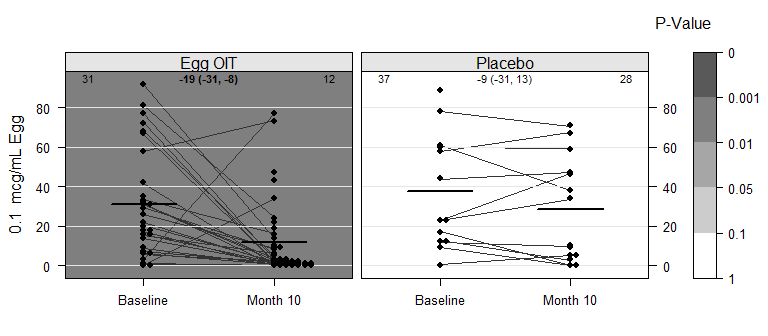
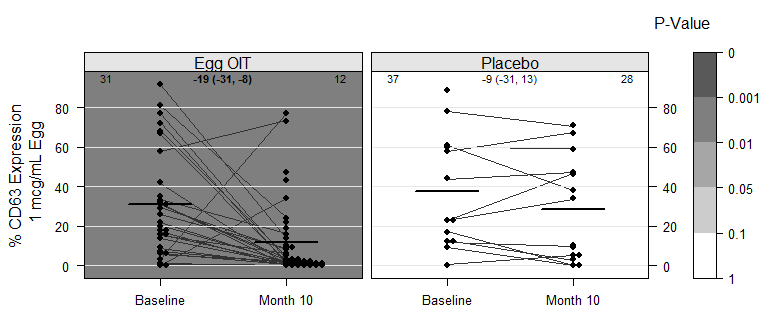
Update Supplemental Figure 06 y-axis label

diff --git a/figures/SupplementalFigure06_ClinicalCaseStudy/clinical.md b/figures/SupplementalFigure06_ClinicalCaseStudy/clinical.md
@@ -1,7 +1,7 @@
 Clinical
 ================
 A Calatroni & J Wildfire
-28 February, 2017
+04 May, 2017
 
 -   [set path](#set-path)
 -   [packages](#packages)
@@ -48,7 +48,7 @@ xyplot(value ~ factor(visno) | trttrue, data=dd %>% filter(variable == 'cd63pos2
                     y = list(alternating = 3)),
        between = list(x=0.5, y=0.5),
        xlab = NULL,
-       ylab = dd %>% filter(variable == 'cd63pos2') %>% slice(1) %>% select(label),
+       ylab = "% CD63 Expression \n 1 mcg/mL Egg",
        panel = function(x,y,...){
          bs <- beeswarm(round(y,0)~x, do.plot=F, corral='none', side=1, spacing=4)
          panel.grid(h=-1,v=0)
@@ -75,7 +75,7 @@ xyplot(value ~ factor(visno) | trttrue, data=dd %>% filter(variable == 'cd63pos2
                     y = list(alternating = 3)),
        between = list(x=0.5, y=0.5),
        xlab = NULL,
-       ylab = dd %>% filter(variable == 'cd63pos2') %>% slice(1) %>% select(label),
+       ylab = "% CD63 Expression \n 1 mcg/mL Egg",
        legend = list(top=list(fun=grid::textGrob("P-Value", x=1.06)),
                      right = list(fun = draw.colorkey,
                                   args = list(key = list(col = rev(pal), at = seq(0,1,length=6), 
@@ -125,7 +125,7 @@ useOuterStrips(
          scale = list(x = list(alternating = 1, tck=c(1,0)),
                       y = list(alternating = 2, tck=c(0,1))),
          between = list(x=0.5, y=0.5),
-         ylab="CD63 +",
+         ylab = "% CD63 Expression",
          xlab = NULL,
          legend = list(top=list(fun=grid::textGrob("P-Value", x=1.06)),
                        right = list(fun = draw.colorkey,
@@ -174,7 +174,7 @@ xyplot(value ~ factor(visno) | trttrue * reorder(label,value), data=dd,
        scale = list(x = list(alternating = 1, tck=c(1,0)),
                     y = list(alternating = 2, tck=c(0,1))),
        between = list(x=0.5, y=0.5),
-       ylab="CD63 +",
+       ylab = "% CD63 Expression",
        xlab = NULL,
        legend = list(top=list(fun=grid::textGrob("P-Value", x=1.06)),
                      right = list(fun = draw.colorkey,
